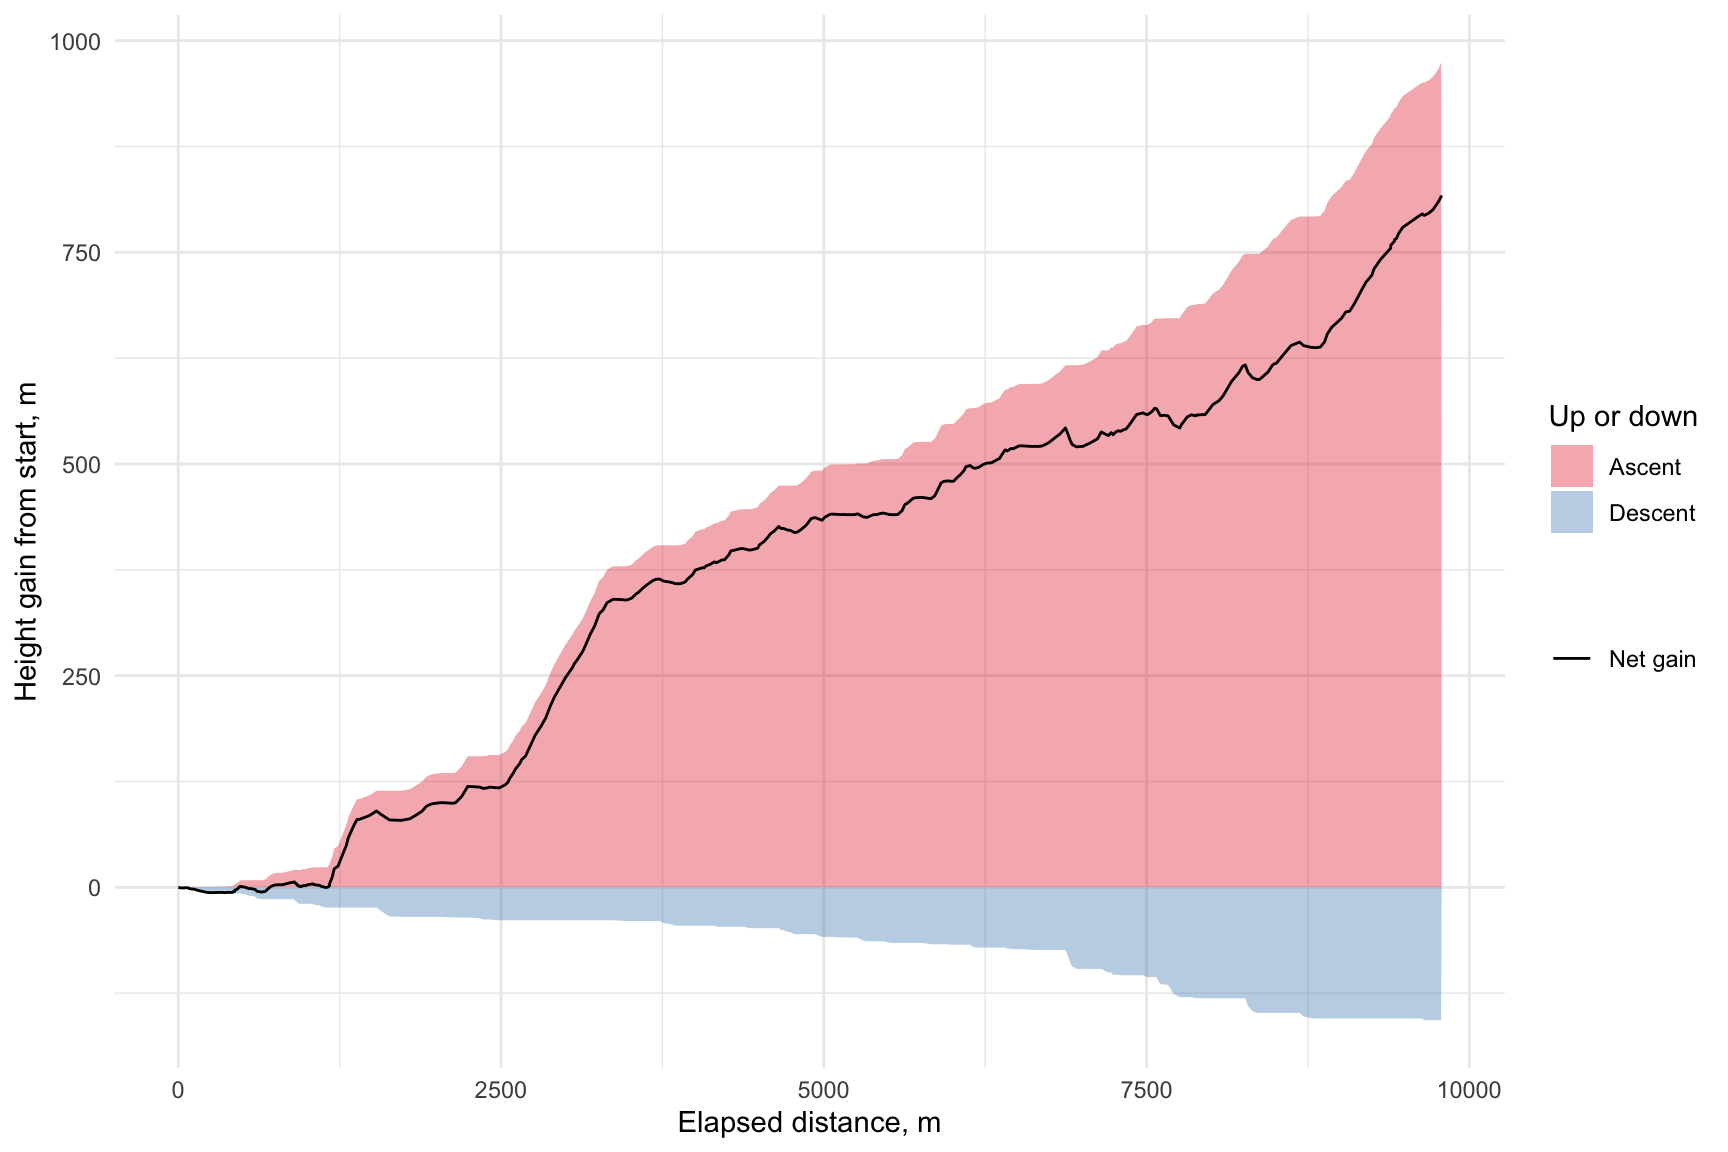
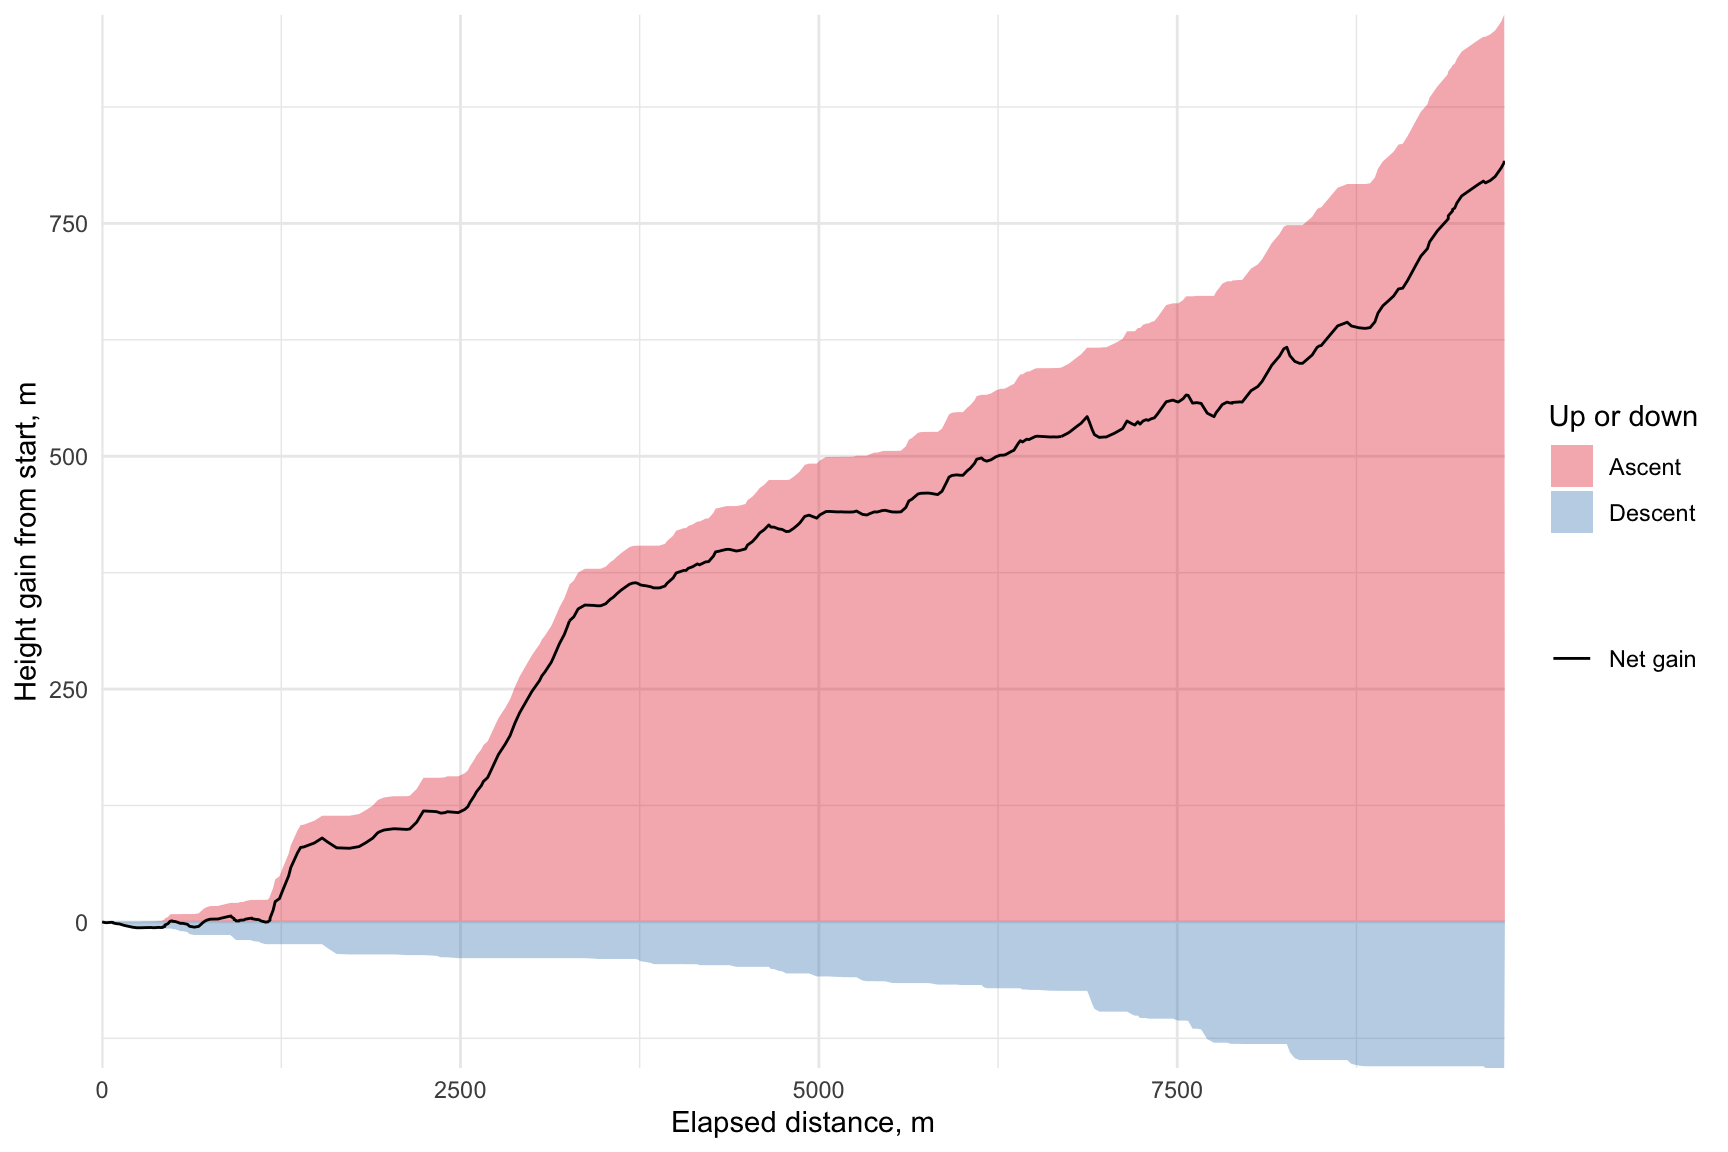
more dickering about with the Waiopehu tramp post

diff --git a/docs/posts/2025-01-28-waiopehu/waiopehu-tramp.html b/docs/posts/2025-01-28-waiopehu/waiopehu-tramp.html
@@ -343,9 +343,13 @@ pre > code.sourceCode > span > a:first-child::before { text-decoration: underlin
 <span id="annotated-cell-5-15"><a href="#annotated-cell-5-15" aria-hidden="true" tabindex="-1"></a>           <span class="at">dxy =</span> <span class="fu">sqrt</span>(dx <span class="sc">^</span> <span class="dv">2</span> <span class="sc">+</span> dy <span class="sc">^</span> <span class="dv">2</span>),</span>
 <button class="code-annotation-anchor" data-target-cell="annotated-cell-5" data-target-annotation="7">7</button><span id="annotated-cell-5-16" class="code-annotation-target"><a href="#annotated-cell-5-16" aria-hidden="true" tabindex="-1"></a>           <span class="at">distance =</span> <span class="fu">cumsum</span>(dxy),</span>
 <span id="annotated-cell-5-17"><a href="#annotated-cell-5-17" aria-hidden="true" tabindex="-1"></a>           <span class="at">Ascent =</span> <span class="fu">cumsum</span>(<span class="fu">if_else</span>(dz <span class="sc">&gt;</span> <span class="dv">0</span>, dz, <span class="dv">0</span>)),</span>
-<span id="annotated-cell-5-18"><a href="#annotated-cell-5-18" aria-hidden="true" tabindex="-1"></a>           <span class="at">Descent =</span> <span class="fu">cumsum</span>(<span class="fu">if_else</span>(dz <span class="sc">&lt;</span> <span class="dv">0</span>, dz, <span class="dv">0</span>))) <span class="sc">|&gt;</span></span>
-<span id="annotated-cell-5-19"><a href="#annotated-cell-5-19" aria-hidden="true" tabindex="-1"></a>    <span class="fu">select</span>(<span class="sc">-</span>dx, <span class="sc">-</span>dy, <span class="sc">-</span>dz, <span class="sc">-</span>dxy)</span>
-<span id="annotated-cell-5-20"><a href="#annotated-cell-5-20" aria-hidden="true" tabindex="-1"></a>}</span><div class="code-annotation-gutter-bg"></div><div class="code-annotation-gutter"></div></code><button title="Copy to Clipboard" class="code-copy-button"><i class="bi"></i></button></pre></div>
+<span id="annotated-cell-5-18"><a href="#annotated-cell-5-18" aria-hidden="true" tabindex="-1"></a>           <span class="at">Descent =</span> <span class="fu">cumsum</span>(<span class="fu">if_else</span>(dz <span class="sc">&lt;</span> <span class="dv">0</span>, dz, <span class="dv">0</span>)),</span>
+<button class="code-annotation-anchor" data-target-cell="annotated-cell-5" data-target-annotation="8">8</button><span id="annotated-cell-5-19" class="code-annotation-target"><a href="#annotated-cell-5-19" aria-hidden="true" tabindex="-1"></a>           <span class="at">downhill_start =</span> dz <span class="sc">&gt;=</span> <span class="dv">0</span> <span class="sc">&amp;</span> <span class="fu">lead</span>(dz) <span class="sc">&lt;</span> <span class="dv">0</span>,</span>
+<span id="annotated-cell-5-20"><a href="#annotated-cell-5-20" aria-hidden="true" tabindex="-1"></a>           <span class="at">downhill_end =</span> dz <span class="sc">&gt;=</span> <span class="dv">0</span> <span class="sc">&amp;</span> <span class="fu">lag</span>(dz) <span class="sc">&lt;</span> <span class="dv">0</span>) <span class="sc">|&gt;</span></span>
+<span id="annotated-cell-5-21"><a href="#annotated-cell-5-21" aria-hidden="true" tabindex="-1"></a>    <span class="fu">select</span>(<span class="sc">-</span>dx, <span class="sc">-</span>dy, <span class="sc">-</span>dz, <span class="sc">-</span>dxy)</span>
+<span id="annotated-cell-5-22"><a href="#annotated-cell-5-22" aria-hidden="true" tabindex="-1"></a>}</span>
+<span id="annotated-cell-5-23"><a href="#annotated-cell-5-23" aria-hidden="true" tabindex="-1"></a></span>
+<span id="annotated-cell-5-24"><a href="#annotated-cell-5-24" aria-hidden="true" tabindex="-1"></a>xyz <span class="ot">&lt;-</span> dem <span class="sc">|&gt;</span> <span class="fu">get_transect</span>(path)</span><div class="code-annotation-gutter-bg"></div><div class="code-annotation-gutter"></div></code><button title="Copy to Clipboard" class="code-copy-button"><i class="bi"></i></button></pre></div>
 <div class="cell-annotation">
 <dl class="code-annotation-container-hidden code-annotation-container-grid">
 <dt data-target-cell="annotated-cell-5" data-target-annotation="1">1</dt>
@@ -376,42 +380,52 @@ pre > code.sourceCode > span > a:first-child::before { text-decoration: underlin
 <dd>
 <span data-code-cell="annotated-cell-5" data-code-lines="16" data-code-annotation="7">Use <code>cumsum</code> to calculate a elapsed distance from the start, and also total ascent and descent determined separately.</span>
 </dd>
+<dt data-target-cell="annotated-cell-5" data-target-annotation="8">8</dt>
+<dd>
+<span data-code-cell="annotated-cell-5" data-code-lines="19" data-code-annotation="8">Detecting when downhill sections of the trail start and end.</span>
+</dd>
 </dl>
 </div>
 </div>
 <p>For plotting purposes it’s easier if we pull the data apart into two data frames, one with the cumulative ascent and descent data tagged as such, the other with them retained, and with a constant label added. This is mostly so that we can convince <code>ggplot</code> to give us two items in the plot legend!</p>
 <div class="cell">
-<div class="sourceCode cell-code" id="cb5"><pre class="sourceCode r code-with-copy"><code class="sourceCode r"><span id="cb5-1"><a href="#cb5-1" aria-hidden="true" tabindex="-1"></a>xyz <span class="ot">&lt;-</span> dem <span class="sc">|&gt;</span> <span class="fu">get_transect</span>(path)</span>
-<span id="cb5-2"><a href="#cb5-2" aria-hidden="true" tabindex="-1"></a></span>
-<span id="cb5-3"><a href="#cb5-3" aria-hidden="true" tabindex="-1"></a>up_down <span class="ot">&lt;-</span> xyz <span class="sc">|&gt;</span> </span>
-<span id="cb5-4"><a href="#cb5-4" aria-hidden="true" tabindex="-1"></a>  <span class="fu">select</span>(distance, Ascent, Descent) <span class="sc">|&gt;</span></span>
-<span id="cb5-5"><a href="#cb5-5" aria-hidden="true" tabindex="-1"></a>  <span class="fu">pivot_longer</span>(<span class="at">cols =</span> <span class="fu">c</span>(Ascent, Descent))</span>
-<span id="cb5-6"><a href="#cb5-6" aria-hidden="true" tabindex="-1"></a></span>
-<span id="cb5-7"><a href="#cb5-7" aria-hidden="true" tabindex="-1"></a>transect <span class="ot">&lt;-</span> xyz <span class="sc">|&gt;</span></span>
-<span id="cb5-8"><a href="#cb5-8" aria-hidden="true" tabindex="-1"></a>  <span class="fu">select</span>(distance, Ascent, Descent) <span class="sc">|&gt;</span></span>
-<span id="cb5-9"><a href="#cb5-9" aria-hidden="true" tabindex="-1"></a>  <span class="fu">mutate</span>(<span class="at">gain =</span> <span class="fu">as.factor</span>(<span class="fu">c</span>(<span class="st">"Gain"</span>)))</span></code><button title="Copy to Clipboard" class="code-copy-button"><i class="bi"></i></button></pre></div>
-</div>
-<p>Finally we can make a plot.</p>
-<div class="cell">
-<div class="sourceCode cell-code" id="annotated-cell-7"><pre class="sourceCode r code-annotation-code code-with-copy code-annotated"><code class="sourceCode r"><span id="annotated-cell-7-1"><a href="#annotated-cell-7-1" aria-hidden="true" tabindex="-1"></a><span class="fu">ggplot</span>() <span class="sc">+</span> </span>
-<span id="annotated-cell-7-2"><a href="#annotated-cell-7-2" aria-hidden="true" tabindex="-1"></a>  <span class="fu">geom_area</span>(</span>
-<span id="annotated-cell-7-3"><a href="#annotated-cell-7-3" aria-hidden="true" tabindex="-1"></a>    <span class="at">data =</span> up_down, </span>
-<span id="annotated-cell-7-4"><a href="#annotated-cell-7-4" aria-hidden="true" tabindex="-1"></a>    <span class="fu">aes</span>(<span class="at">x =</span> distance, <span class="at">y =</span> value, <span class="at">group =</span> name, <span class="at">fill =</span> name),</span>
-<span id="annotated-cell-7-5"><a href="#annotated-cell-7-5" aria-hidden="true" tabindex="-1"></a>        <span class="at">colour =</span> <span class="cn">NA</span>, <span class="at">position =</span> <span class="st">"identity"</span>, <span class="at">alpha =</span> <span class="fl">0.35</span>) <span class="sc">+</span></span>
-<span id="annotated-cell-7-6"><a href="#annotated-cell-7-6" aria-hidden="true" tabindex="-1"></a>  <span class="fu">scale_fill_brewer</span>(<span class="at">palette =</span> <span class="st">"Set1"</span>, <span class="at">name =</span> <span class="st">"Up or down"</span>) <span class="sc">+</span></span>
-<span id="annotated-cell-7-7"><a href="#annotated-cell-7-7" aria-hidden="true" tabindex="-1"></a>  <span class="fu">geom_line</span>(</span>
-<span id="annotated-cell-7-8"><a href="#annotated-cell-7-8" aria-hidden="true" tabindex="-1"></a>    <span class="at">data =</span> transect, </span>
-<button class="code-annotation-anchor" data-target-cell="annotated-cell-7" data-target-annotation="1">1</button><span id="annotated-cell-7-9" class="code-annotation-target"><a href="#annotated-cell-7-9" aria-hidden="true" tabindex="-1"></a>    <span class="fu">aes</span>(<span class="at">x =</span> distance, <span class="at">y =</span> Ascent <span class="sc">+</span> Descent, <span class="at">colour =</span> gain)) <span class="sc">+</span></span>
-<span id="annotated-cell-7-10"><a href="#annotated-cell-7-10" aria-hidden="true" tabindex="-1"></a>  <span class="fu">scale_colour_manual</span>(<span class="at">name =</span> <span class="st">""</span>, <span class="at">values =</span> <span class="st">"black"</span>, <span class="at">labels =</span> <span class="st">"Net gain"</span>) <span class="sc">+</span></span>
-<span id="annotated-cell-7-11"><a href="#annotated-cell-7-11" aria-hidden="true" tabindex="-1"></a>  <span class="fu">labs</span>(<span class="at">x =</span> <span class="st">"Elapsed distance, m"</span>, <span class="at">y =</span> <span class="st">"Height gain from start, m"</span>)</span><div class="code-annotation-gutter-bg"></div><div class="code-annotation-gutter"></div></code><button title="Copy to Clipboard" class="code-copy-button"><i class="bi"></i></button></pre></div>
+<div class="sourceCode cell-code" id="annotated-cell-6"><pre class="sourceCode r code-annotation-code code-with-copy code-annotated"><code class="sourceCode r"><span id="annotated-cell-6-1"><a href="#annotated-cell-6-1" aria-hidden="true" tabindex="-1"></a>up_down <span class="ot">&lt;-</span> xyz <span class="sc">|&gt;</span> </span>
+<span id="annotated-cell-6-2"><a href="#annotated-cell-6-2" aria-hidden="true" tabindex="-1"></a>  <span class="fu">select</span>(distance, Ascent, Descent) <span class="sc">|&gt;</span></span>
+<span id="annotated-cell-6-3"><a href="#annotated-cell-6-3" aria-hidden="true" tabindex="-1"></a>  <span class="fu">pivot_longer</span>(<span class="at">cols =</span> <span class="fu">c</span>(Ascent, Descent))</span>
+<span id="annotated-cell-6-4"><a href="#annotated-cell-6-4" aria-hidden="true" tabindex="-1"></a></span>
+<span id="annotated-cell-6-5"><a href="#annotated-cell-6-5" aria-hidden="true" tabindex="-1"></a>transect <span class="ot">&lt;-</span> xyz <span class="sc">|&gt;</span></span>
+<span id="annotated-cell-6-6"><a href="#annotated-cell-6-6" aria-hidden="true" tabindex="-1"></a>  <span class="fu">select</span>(distance, Ascent, Descent) <span class="sc">|&gt;</span></span>
+<button class="code-annotation-anchor" data-target-cell="annotated-cell-6" data-target-annotation="1">1</button><span id="annotated-cell-6-7" class="code-annotation-target"><a href="#annotated-cell-6-7" aria-hidden="true" tabindex="-1"></a>  <span class="fu">mutate</span>(<span class="at">height =</span> Ascent <span class="sc">+</span> Descent,</span>
+<button class="code-annotation-anchor" data-target-cell="annotated-cell-6" data-target-annotation="2">2</button><span id="annotated-cell-6-8" class="code-annotation-target"><a href="#annotated-cell-6-8" aria-hidden="true" tabindex="-1"></a>         <span class="at">gain =</span> <span class="fu">as.factor</span>(<span class="fu">c</span>(<span class="st">"Gain"</span>)))</span><div class="code-annotation-gutter-bg"></div><div class="code-annotation-gutter"></div></code><button title="Copy to Clipboard" class="code-copy-button"><i class="bi"></i></button></pre></div>
 <div class="cell-annotation">
 <dl class="code-annotation-container-hidden code-annotation-container-grid">
-<dt data-target-cell="annotated-cell-7" data-target-annotation="1">1</dt>
+<dt data-target-cell="annotated-cell-6" data-target-annotation="1">1</dt>
 <dd>
-<span data-code-cell="annotated-cell-7" data-code-lines="9" data-code-annotation="1">Because descent values are negative we just add <code>Ascent</code> and <code>Descent</code> to get the net climb. The <code>gain</code> variable is constant, but used here so that it can be picked up by <code>scale_colour_manual</code> which persuades <code>ggplot</code> to produce a legend item for it.</span>
+<span data-code-cell="annotated-cell-6" data-code-lines="7" data-code-annotation="1">Because descent values are negative we just add <code>Ascent</code> and <code>Descent</code> to get the net climb.</span>
+</dd>
+<dt data-target-cell="annotated-cell-6" data-target-annotation="2">2</dt>
+<dd>
+<span data-code-cell="annotated-cell-6" data-code-lines="8" data-code-annotation="2">The <code>gain</code> variable is constant, but used here so that it can be picked up by <code>scale_colour_manual</code> which persuades <code>ggplot</code> to produce a legend item for it.</span>
 </dd>
 </dl>
 </div>
+</div>
+<p>Finally we can make a plot.</p>
+<div class="cell">
+<div class="sourceCode cell-code" id="cb5"><pre class="sourceCode r code-with-copy"><code class="sourceCode r"><span id="cb5-1"><a href="#cb5-1" aria-hidden="true" tabindex="-1"></a>g <span class="ot">&lt;-</span> <span class="fu">ggplot</span>() <span class="sc">+</span> </span>
+<span id="cb5-2"><a href="#cb5-2" aria-hidden="true" tabindex="-1"></a>  <span class="fu">geom_area</span>(</span>
+<span id="cb5-3"><a href="#cb5-3" aria-hidden="true" tabindex="-1"></a>    <span class="at">data =</span> up_down, </span>
+<span id="cb5-4"><a href="#cb5-4" aria-hidden="true" tabindex="-1"></a>    <span class="fu">aes</span>(<span class="at">x =</span> distance, <span class="at">y =</span> value, <span class="at">group =</span> name, <span class="at">fill =</span> name),</span>
+<span id="cb5-5"><a href="#cb5-5" aria-hidden="true" tabindex="-1"></a>        <span class="at">colour =</span> <span class="cn">NA</span>, <span class="at">position =</span> <span class="st">"identity"</span>, <span class="at">alpha =</span> <span class="fl">0.35</span>) <span class="sc">+</span></span>
+<span id="cb5-6"><a href="#cb5-6" aria-hidden="true" tabindex="-1"></a>  <span class="fu">scale_fill_brewer</span>(<span class="at">palette =</span> <span class="st">"Set1"</span>, <span class="at">name =</span> <span class="st">"Up or down"</span>) <span class="sc">+</span></span>
+<span id="cb5-7"><a href="#cb5-7" aria-hidden="true" tabindex="-1"></a>  <span class="fu">geom_line</span>(</span>
+<span id="cb5-8"><a href="#cb5-8" aria-hidden="true" tabindex="-1"></a>    <span class="at">data =</span> transect, </span>
+<span id="cb5-9"><a href="#cb5-9" aria-hidden="true" tabindex="-1"></a>    <span class="fu">aes</span>(<span class="at">x =</span> distance, <span class="at">y =</span> height, <span class="at">colour =</span> gain)) <span class="sc">+</span></span>
+<span id="cb5-10"><a href="#cb5-10" aria-hidden="true" tabindex="-1"></a>  <span class="fu">scale_colour_manual</span>(<span class="at">name =</span> <span class="st">""</span>, <span class="at">values =</span> <span class="st">"black"</span>, <span class="at">labels =</span> <span class="st">"Net gain"</span>) <span class="sc">+</span></span>
+<span id="cb5-11"><a href="#cb5-11" aria-hidden="true" tabindex="-1"></a>  <span class="fu">coord_cartesian</span>(<span class="at">expand =</span> <span class="cn">FALSE</span>) <span class="sc">+</span> </span>
+<span id="cb5-12"><a href="#cb5-12" aria-hidden="true" tabindex="-1"></a>  <span class="fu">labs</span>(<span class="at">x =</span> <span class="st">"Elapsed distance, m"</span>, <span class="at">y =</span> <span class="st">"Height gain from start, m"</span>)</span>
+<span id="cb5-13"><a href="#cb5-13" aria-hidden="true" tabindex="-1"></a></span>
+<span id="cb5-14"><a href="#cb5-14" aria-hidden="true" tabindex="-1"></a>g <span class="sc">+</span> <span class="fu">theme_minimal</span>()</span></code><button title="Copy to Clipboard" class="code-copy-button"><i class="bi"></i></button></pre></div>
 <div class="cell-output-display">
 <div>
 <figure class="figure">
@@ -421,9 +435,38 @@ pre > code.sourceCode > span > a:first-child::before { text-decoration: underlin
 </div>
 </div>
 <p>I have split the climb out like this, because as I said above, some of the more emotionally uh… <em>challenging</em> parts of this trip were the sections going downhill when our overall course was up, and I wanted to see just how much of that there was.</p>
-<p>As you can see, for the most part it’s a pretty relentless tramp. I’m not sure I’d recommend it as a first long hike back after a (too) long break. Maybe I’ll go back next year and see if I’ve gotten any fitter.</p>
+<p>It <em>looks like</em> a pretty relentless uphill tramp. But there really are quite a few sections of downhill. To emphasise this we can add to plot, using the downhill star and end flags in the data.</p>
+<div class="cell">
+<div class="sourceCode cell-code" id="cb6"><pre class="sourceCode r code-with-copy"><code class="sourceCode r"><span id="cb6-1"><a href="#cb6-1" aria-hidden="true" tabindex="-1"></a>downhill_starts <span class="ot">&lt;-</span> xyz <span class="sc">|&gt;</span></span>
+<span id="cb6-2"><a href="#cb6-2" aria-hidden="true" tabindex="-1"></a>  <span class="fu">filter</span>(downhill_start) <span class="sc">|&gt;</span></span>
+<span id="cb6-3"><a href="#cb6-3" aria-hidden="true" tabindex="-1"></a>  <span class="fu">pull</span>(distance)</span>
+<span id="cb6-4"><a href="#cb6-4" aria-hidden="true" tabindex="-1"></a></span>
+<span id="cb6-5"><a href="#cb6-5" aria-hidden="true" tabindex="-1"></a>downhill_ends <span class="ot">&lt;-</span> xyz <span class="sc">|&gt;</span></span>
+<span id="cb6-6"><a href="#cb6-6" aria-hidden="true" tabindex="-1"></a>  <span class="fu">filter</span>(downhill_end) <span class="sc">|&gt;</span></span>
+<span id="cb6-7"><a href="#cb6-7" aria-hidden="true" tabindex="-1"></a>  <span class="fu">pull</span>(distance)</span>
+<span id="cb6-8"><a href="#cb6-8" aria-hidden="true" tabindex="-1"></a></span>
+<span id="cb6-9"><a href="#cb6-9" aria-hidden="true" tabindex="-1"></a>downhill_sections <span class="ot">&lt;-</span> <span class="fu">tibble</span>(</span>
+<span id="cb6-10"><a href="#cb6-10" aria-hidden="true" tabindex="-1"></a>  <span class="at">dmin =</span> downhill_starts,</span>
+<span id="cb6-11"><a href="#cb6-11" aria-hidden="true" tabindex="-1"></a>  <span class="at">dmax =</span> downhill_ends)</span>
+<span id="cb6-12"><a href="#cb6-12" aria-hidden="true" tabindex="-1"></a></span>
+<span id="cb6-13"><a href="#cb6-13" aria-hidden="true" tabindex="-1"></a>g <span class="sc">+</span> <span class="fu">geom_rect</span>(<span class="at">data =</span> downhill_sections, </span>
+<span id="cb6-14"><a href="#cb6-14" aria-hidden="true" tabindex="-1"></a>              <span class="fu">aes</span>(<span class="at">xmin =</span> dmin, <span class="at">xmax =</span> dmax, </span>
+<span id="cb6-15"><a href="#cb6-15" aria-hidden="true" tabindex="-1"></a>                  <span class="at">ymin =</span> <span class="fu">min</span>(xyz<span class="sc">$</span>Descent), </span>
+<span id="cb6-16"><a href="#cb6-16" aria-hidden="true" tabindex="-1"></a>                  <span class="at">ymax =</span> <span class="fu">max</span>(xyz<span class="sc">$</span>Ascent)),</span>
+<span id="cb6-17"><a href="#cb6-17" aria-hidden="true" tabindex="-1"></a>              <span class="at">fill =</span> <span class="st">"#00000030"</span>) <span class="sc">+</span></span>
+<span id="cb6-18"><a href="#cb6-18" aria-hidden="true" tabindex="-1"></a>  <span class="fu">theme_minimal</span>()</span></code><button title="Copy to Clipboard" class="code-copy-button"><i class="bi"></i></button></pre></div>
+<div class="cell-output-display">
+<div>
+<figure class="figure">
+<p><a href="waiopehu-tramp_files/figure-html/unnamed-chunk-9-1.png" class="lightbox" data-gallery="quarto-lightbox-gallery-4"><img src="waiopehu-tramp_files/figure-html/unnamed-chunk-9-1.png" class="img-fluid figure-img" width="864"></a></p>
+</figure>
+</div>
+</div>
+</div>
+<p>And now we can see that while many of those ‘downhill’ sections on the way up are really fairly level, there are a lot of them!</p>
+<p>All in all, I’m not sure I’d recommend it as a first long hike back after a (too) long break. Maybe I’ll go back next year and see if I’ve gotten any fitter.</p>
 <p>Meanwhile, here’s a photograph looking further to the east from the hut when we finally got there. Lighting conditions were a bit challenging for my phone’s camera, but all in all… very much worth it, even if I won’t be hurrying back right away!</p>
-<p><a href="view-from-the-hut.jpg" class="lightbox" data-gallery="quarto-lightbox-gallery-4"><img src="view-from-the-hut.jpg" class="img-fluid"></a></p>
+<p><a href="view-from-the-hut.jpg" class="lightbox" data-gallery="quarto-lightbox-gallery-5"><img src="view-from-the-hut.jpg" class="img-fluid"></a></p>
 
 
 </section>

diff --git a/docs/blog.html b/docs/blog.html
@@ -255,7 +255,7 @@ window.Quarto = {
 
 <div class="quarto-listing quarto-listing-container-grid" id="listing-listing">
 <div class="list grid quarto-listing-cols-3">
[2 lines of base64/hex data omitted]
 <a href="./posts/2025-01-28-waiopehu/waiopehu-tramp.html" class="quarto-grid-link">
 <div class="quarto-grid-item card h-100 card-left">
 <p class="card-img-top">
